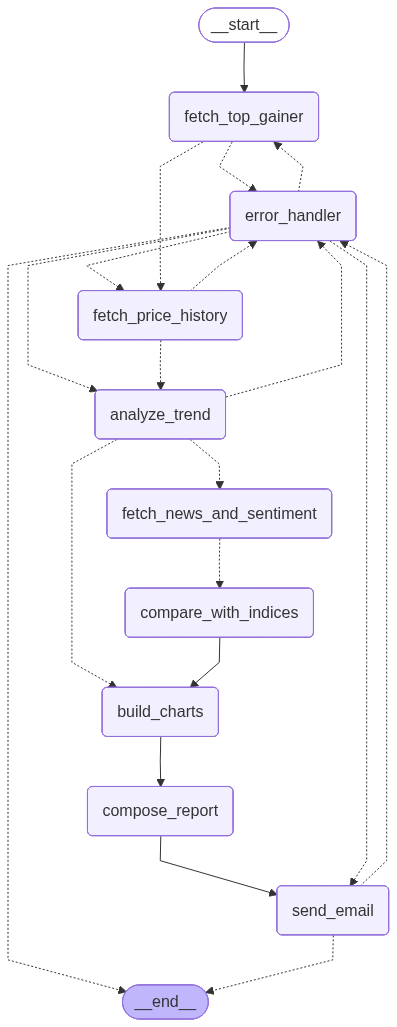
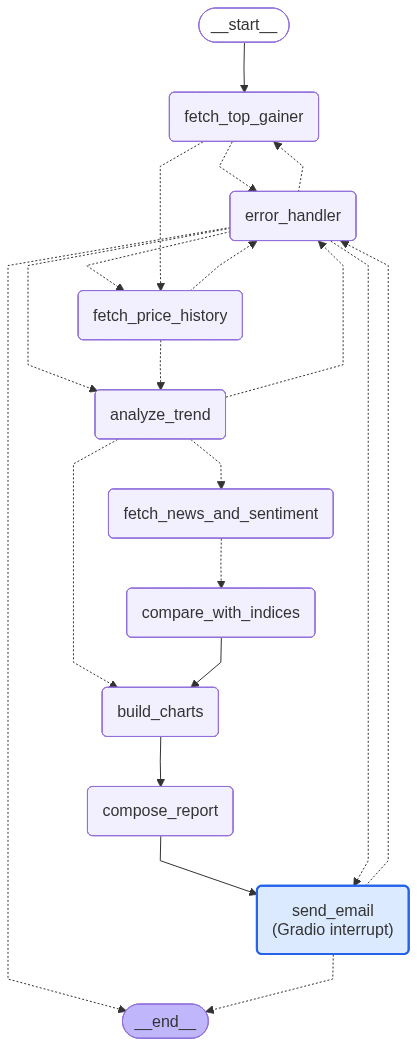
chore: Update documentation and enhance graph export functionality
- Added checkpointing details to .env.example and README.md to clarify state persistence options.
- Enhanced the graph export process to include human-in-the-loop email confirmation in the architecture diagram.
- Updated the Mermaid diagram generation to highlight the checkpointing feature and improve visual clarity.
- Increased the test suite coverage to ensure robustness of the new features.

diff --git a/src/bestock_agent/export_graph.py b/src/bestock_agent/export_graph.py
@@ -3,11 +3,62 @@
 from __future__ import annotations
 
 import argparse
+import base64
+import re
+import time
 from pathlib import Path
 
-from bestock_agent.graph import app
+import httpx
+
+from bestock_agent.graph import build_graph
 
 _DEFAULT_OUTPUT_DIR = Path("outputs")
+
+# Visual hint in the diagram: Gradio pauses here for email confirmation.
+_HITL_NODE = "send_email"
+_HITL_LABEL = "send_email<br/>(Gradio interrupt)"
+
+
+def _annotate_mermaid(mermaid: str) -> str:
+    """Highlight the human-in-the-loop gate and document checkpointing."""
+    annotated = mermaid.replace(
+        f"{_HITL_NODE}({_HITL_NODE})",
+        f'{_HITL_NODE}("{_HITL_LABEL}")',
+    )
+    if "classDef hitl" not in annotated:
+        annotated = annotated.replace(
+            "classDef last fill:#bfb6fc",
+            "classDef hitl fill:#dbeafe,stroke:#2563eb,stroke-width:2px\n\tclassDef last fill:#bfb6fc",
+        )
+        annotated = re.sub(
+            rf"(\t{_HITL_NODE}\(.+\))",
+            rf"\1:::hitl",
+            annotated,
+            count=1,
+        )
+    note = (
+        "\n\t%% Checkpointing: state persisted to SQLite after every node "
+        "(.checkpoints/bestock.db). Gradio uses interrupt_before send_email.\n"
+    )
+    if note not in annotated:
+        annotated = annotated.replace("graph TD;", f"graph TD;{note}")
+    return annotated
+
+
+def _render_mermaid_png(mermaid: str, *, max_retries: int = 3, retry_delay: float = 1.0) -> bytes:
+    """Render Mermaid source to PNG via mermaid.ink."""
+    encoded = base64.urlsafe_b64encode(mermaid.encode("utf-8")).decode().rstrip("=")
+    url = f"https://mermaid.ink/img/{encoded}?type=png"
+    last_err: Exception | None = None
+    for _ in range(max_retries):
+        try:
+            response = httpx.get(url, timeout=30.0, follow_redirects=True)
+            response.raise_for_status()
+            return response.content
+        except Exception as exc:  # noqa: BLE001 — retry on any render failure
+            last_err = exc
+            time.sleep(retry_delay)
+    raise RuntimeError(f"Failed to render Mermaid PNG: {last_err}") from last_err
 
 
 def export_graph(output_dir: Path | str = _DEFAULT_OUTPUT_DIR) -> dict[str, Path]:
@@ -19,12 +70,13 @@ def export_graph(output_dir: Path | str = _DEFAULT_OUTPUT_DIR) -> dict[str, Path
     out = Path(output_dir)
     out.mkdir(parents=True, exist_ok=True)
 
-    graph = app.get_graph()
+    graph = build_graph().compile().get_graph()
     mermaid_path = out / "bestock_graph.mmd"
     png_path = out / "bestock_graph.png"
 
-    mermaid_path.write_text(graph.draw_mermaid(), encoding="utf-8")
-    png_path.write_bytes(graph.draw_mermaid_png(max_retries=3, retry_delay=1.0))
+    mermaid = _annotate_mermaid(graph.draw_mermaid())
+    mermaid_path.write_text(mermaid, encoding="utf-8")
+    png_path.write_bytes(_render_mermaid_png(mermaid))
 
     return {"mermaid": mermaid_path, "png": png_path}
 

diff --git a/README.md b/README.md
@@ -6,7 +6,6 @@ A LangChain + LangGraph agent that automatically identifies the best-performing 
 
 ## Features
 
-
 | Feature                          | Details                                                                                                                     |
 | -------------------------------- | --------------------------------------------------------------------------------------------------------------------------- |
 | **Top gainer detection**         | Scans the NASDAQ market daily with filters: price ≥ $10, volume ≥ 500 K, gain ≥ 5 %, symbol ≤ 4 chars, relative volume ≥ 2× |
@@ -17,11 +16,11 @@ A LangChain + LangGraph agent that automatically identifies the best-performing 
 | **Buy / Hold / Sell suggestion** | LLM-generated (or rule-based fallback) when Advanced Settings is on                                                         |
 | **Charts**                       | Matplotlib PNG: price trend, daily changes, index comparison, sentiment gauge — attached to the email                       |
 | **Email delivery**               | SMTP (Gmail-compatible); HTML + plain-text multipart; chart attachments                                                     |
-| **Gradio UI**                    | Web app at `http://localhost:7860`                                                                                          |
+| **Gradio UI**                    | Web app at `http://localhost:7860` with human-in-the-loop email confirmation                                                |
 | **CLI**                          | `bestock` command for scripted / CI runs                                                                                    |
+| **Checkpoint persistence**       | SQLite-backed LangGraph checkpoints; state saved after every node; schema-version safe resume                               |
 | **Observability**                | Structured logging, LangSmith tracing (optional)                                                                            |
 | **Fallback chain**               | 20s same-provider backoff on rate limits, then Alpha Vantage → yfinance for price data; Brave → SerpAPI for news            |
-
 
 ---
 
@@ -33,26 +32,32 @@ sleekflow-assignment/
 ├── pyproject.toml          # dependency manifest + entry points
 ├── .env                    # secrets — never commit
 ├── .env.example            # template (copy to .env)
+├── .checkpoints/           # SQLite LangGraph checkpoint DB (gitignored)
 ├── outputs/
+│   ├── bestock_graph.mmd   # Mermaid source for the graph diagram
+│   ├── bestock_graph.png   # exported graph diagram
 │   ├── charts/             # generated PNG charts
 │   └── reports/            # (reserved for future text exports)
 ├── src/bestock_agent/
 │   ├── __init__.py         # LangSmith tracing activation
 │   ├── app.py              # Gradio UI (launch module)
+│   ├── checkpoint.py       # SQLite checkpointer + thread IDs + schema gate
 │   ├── cli.py              # CLI entry point
 │   ├── config.py           # pydantic-settings Settings
-│   ├── graph.py            # LangGraph StateGraph assembly
+│   ├── export_graph.py     # bestock-graph — export Mermaid + PNG
+│   ├── graph.py            # LangGraph StateGraph assembly + compile_app()
 │   ├── logging.py          # structured BestockLogger
 │   ├── schemas.py          # Pydantic data models
-│   ├── state.py            # BestockState TypedDict + initial_state()
+│   ├── state.py            # BestockState TypedDict + STATE_SCHEMA_VERSION
+│   ├── state_migration.py  # checkpoint hydration + stale-version rejection
 │   ├── chains/
-│   │   ├── query_refinement_chain.py   # Phase 7: refine sparse news queries
+│   │   ├── query_refinement_chain.py   # refine sparse news queries
 │   │   ├── report_chain.py             # LLM email report composition
 │   │   └── sentiment_chain.py          # LLM sentiment classification
 │   ├── nodes/              # LangGraph nodes (one file per node)
 │   ├── providers/          # Alpha Vantage, yfinance, Brave, SerpAPI adapters
 │   └── services/           # Pure-Python analysis, validation, charts, email
-└── tests/                  # pytest test suite (105 tests)
+└── tests/                  # pytest test suite (132 tests)
 ```
 
 ---
@@ -60,29 +65,44 @@ sleekflow-assignment/
 ## Architecture Overview
 
 ```
-   Finnhub    ─┐                                  ┌─ Brave Search  ─┐
-               │ fetch_top_gainer                 │                 │
-yfinance (fb) ─┘      │                           │  SerpAPI (fb)  ─┘
-                      ▼                            ▼
-              fetch_price_history        fetch_news_and_sentiment
-                      │                 (query refinement + LLM)
-                      ▼                            │
-               analyze_trend ─── advanced? ────────┘
-                      │                            │
-               build_charts ◄──────────── compare_with_indices
-                      │
-               compose_report  (LLM or template fallback)
-                      │
-               send_email (SMTP, chart attachments)
-                      │
-                     END ─── error_handler (retry / fallback)
+  Alpha Vantage ─┐                                  ┌─ Brave Search  ─┐
+                 │ fetch_top_gainer                 │                 │
+  yfinance (fb) ─┘      │                           │  SerpAPI (fb)  ─┘
+                        ▼                            ▼
+                fetch_price_history        fetch_news_and_sentiment
+                        │                 (query refinement + LLM)
+                        ▼                            │
+                 analyze_trend ─── advanced? ───────┘
+                        │                            │
+                 build_charts ◄──────────── compare_with_indices
+                        │
+                 compose_report  (LLM or template fallback)
+                        │
+                 send_email ◄── Gradio: interrupt_before (Yes/No confirm)
+                        │      CLI: runs straight through
+                        ▼
+                       END ─── error_handler (retry / fallback)
+
+  Checkpoint layer (SQLite .checkpoints/bestock.db)
+  ─────────────────────────────────────────────────
+  State persisted after every node via AsyncSqliteSaver + JsonPlusSerializer.
+  Each run gets a versioned thread ID (e.g. v1-ui-abc123).
+  Gradio resumes the graph with Command(resume=True) after email confirmation.
 ```
 
 ---
 
 ## Architecture Diagram
 
+The diagram below shows the LangGraph node topology. The **send_email** node is highlighted — the Gradio UI pauses there (`interrupt_before`) so you can review results and confirm before SMTP delivery. The CLI runs through without pausing.
+
 ![Architecture Diagram](outputs/bestock_graph.png)
+
+Regenerate after graph changes:
+
+```bash
+bestock-graph
+```
 
 ---
 
@@ -126,7 +146,6 @@ Copy `.env.example` to `.env` and fill in all `<YOUR-*>` placeholders:
 cp .env.example .env
 ```
 
-
 | Variable                     | Required | Description                                                                         |
 | ---------------------------- | -------- | ----------------------------------------------------------------------------------- |
 | `OPENAI_API_KEY`             | Yes      | OpenAI key for report, sentiment, and query-refinement chains                       |
@@ -145,8 +164,12 @@ cp .env.example .env
 | `LANGSMITH_API_KEY`          | optional | LangSmith API key                                                                   |
 | `LANGSMITH_PROJECT`          | optional | Project name (default: `bestock-agent`)                                             |
 
-
 > **Gmail App Password** — Regular passwords will not work with SMTP. Generate a 16-character app password at [myaccount.google.com → Security → 2-Step Verification → App passwords](https://myaccount.google.com/apppasswords).
+
+Checkpoint settings use defaults and do not require `.env` entries:
+
+- `checkpoint_enabled` — `true` (disable to use in-memory checkpoints only)
+- `checkpoint_db_path` — `.checkpoints/bestock.db`
 
 ---
 
@@ -162,15 +185,22 @@ bestock-ui
 
 Open [http://localhost:7860](http://localhost:7860) in your browser.
 
-**UI controls:**
+**UI flow:**
 
 1. Enter a valid **Email Recipient** address.
-2. Click **▶ Start** for a quick run (5-day lookback, no advanced analysis).
-3. Tick **Advanced Settings** to reveal:
-  - **Lookback Days** (3 – 30, required when Advanced Settings is on)
-  - **Sentiment Analysis** — classifies market mood from recent news
-  - **S&P 500 Comparison** — compares stock vs index over the lookback period
-  - **Volatility** — adds daily standard-deviation metric to the report
+2. Click **▶ Start** — analysis runs; Start/Reset/Yes/No buttons are disabled while work is in progress.
+3. Review the results panel when analysis completes.
+4. Click **Yes** to send the report via email, or **No** to keep results without sending.
+5. Click **↺ Reset** to clear inputs and start over.
+
+**Advanced Settings** (optional):
+
+- **Lookback Days** (3 – 30, required when Advanced Settings is on)
+- **Sentiment Analysis** — classifies market mood from recent news
+- **S&P 500 Comparison** — compares stock vs index over the lookback period
+- **Volatility** — adds daily standard-deviation metric to the report
+
+The UI uses LangGraph checkpointing with `interrupt_before send_email`. Analysis state is persisted to SQLite; confirming email resumes the graph via the stored thread ID.
 
 ### Option B — CLI
 
@@ -181,6 +211,8 @@ bestock --advanced                        # enables all advanced analysis
 bestock --provider yfinance               # force yfinance provider
 bestock --date 2026-06-10                 # analyse a specific past date
 ```
+
+The CLI runs the full pipeline including email delivery (no confirmation step). Each run prints a versioned checkpoint `thread_id` and writes state to `.checkpoints/bestock.db`.
 
 Full options:
 
@@ -206,8 +238,8 @@ pytest
 # Verbose with test names
 pytest -v
 
-# A specific test file
-pytest tests/test_happy_flow.py -v
+# Checkpoint / persistence tests
+pytest tests/test_checkpoint.py -v
 
 # With log output (useful for debugging)
 pytest -s --log-cli-level=INFO
@@ -215,18 +247,17 @@ pytest -s --log-cli-level=INFO
 
 ### Test coverage summary
 
-
 | File                       | What it covers                                                                                         |
 | -------------------------- | ------------------------------------------------------------------------------------------------------ |
 | `test_analysis.py`         | Trend calculations, volatility, price table formatting                                                 |
 | `test_validation.py`       | All validation rules (email, date, lookback, price bars, top gainer)                                   |
-| `test_fallback.py`         | Provider switching, retry logic, `decide_fallback`, `failing_node`                                     |
+| `test_fallback.py`         | Provider switching, retry logic, `decide_fallback`, `failing_node`                                       |
 | `test_graph_routing.py`    | Node routing functions, `error_handler` node behaviour                                                 |
 | `test_report_payload.py`   | Report composition, disclaimer, conditional volatility/suggestion                                      |
 | `test_query_refinement.py` | LLM and rule-based query refinement                                                                    |
 | `test_logging.py`          | Structured logger helpers and timer                                                                    |
-| `test_happy_flow.py`       | Full graph happy paths (basic + advanced), email delivery flag, fallback recovery, UI input validation |
-
+| `test_checkpoint.py`       | SQLite persistence, interrupt/resume, thread isolation, schema versioning, serde allowlist             |
+| `test_happy_flow.py`       | Full graph happy paths, email delivery, fallback recovery, UI helpers (confirm panel, button locking)  |
 
 ---
 
@@ -234,12 +265,13 @@ pytest -s --log-cli-level=INFO
 
 After a successful run:
 
-- **Email** delivered to the recipient with subject `BeStock's Top Performing NASDAQ Stock Analysis Report on <SYMBOL> (<DATE>)`
+- **Email** delivered to the recipient with subject `BeStock's Top Performing NASDAQ Stock Analysis Report on <SYMBOL>`
 - **Charts** saved to `outputs/charts/`:
   - `<symbol>_price_<date>.png` — closing price trend
   - `<symbol>_change_<date>.png` — daily percentage change bars
   - `<symbol>_vs_sp500_<date>.png` — stock vs S&P 500 (advanced only)
   - `<symbol>_sentiment_<date>.png` — sentiment gauge (advanced only)
+- **Checkpoints** saved to `.checkpoints/bestock.db` (one row per graph step per thread)
 
 The email contains:
 